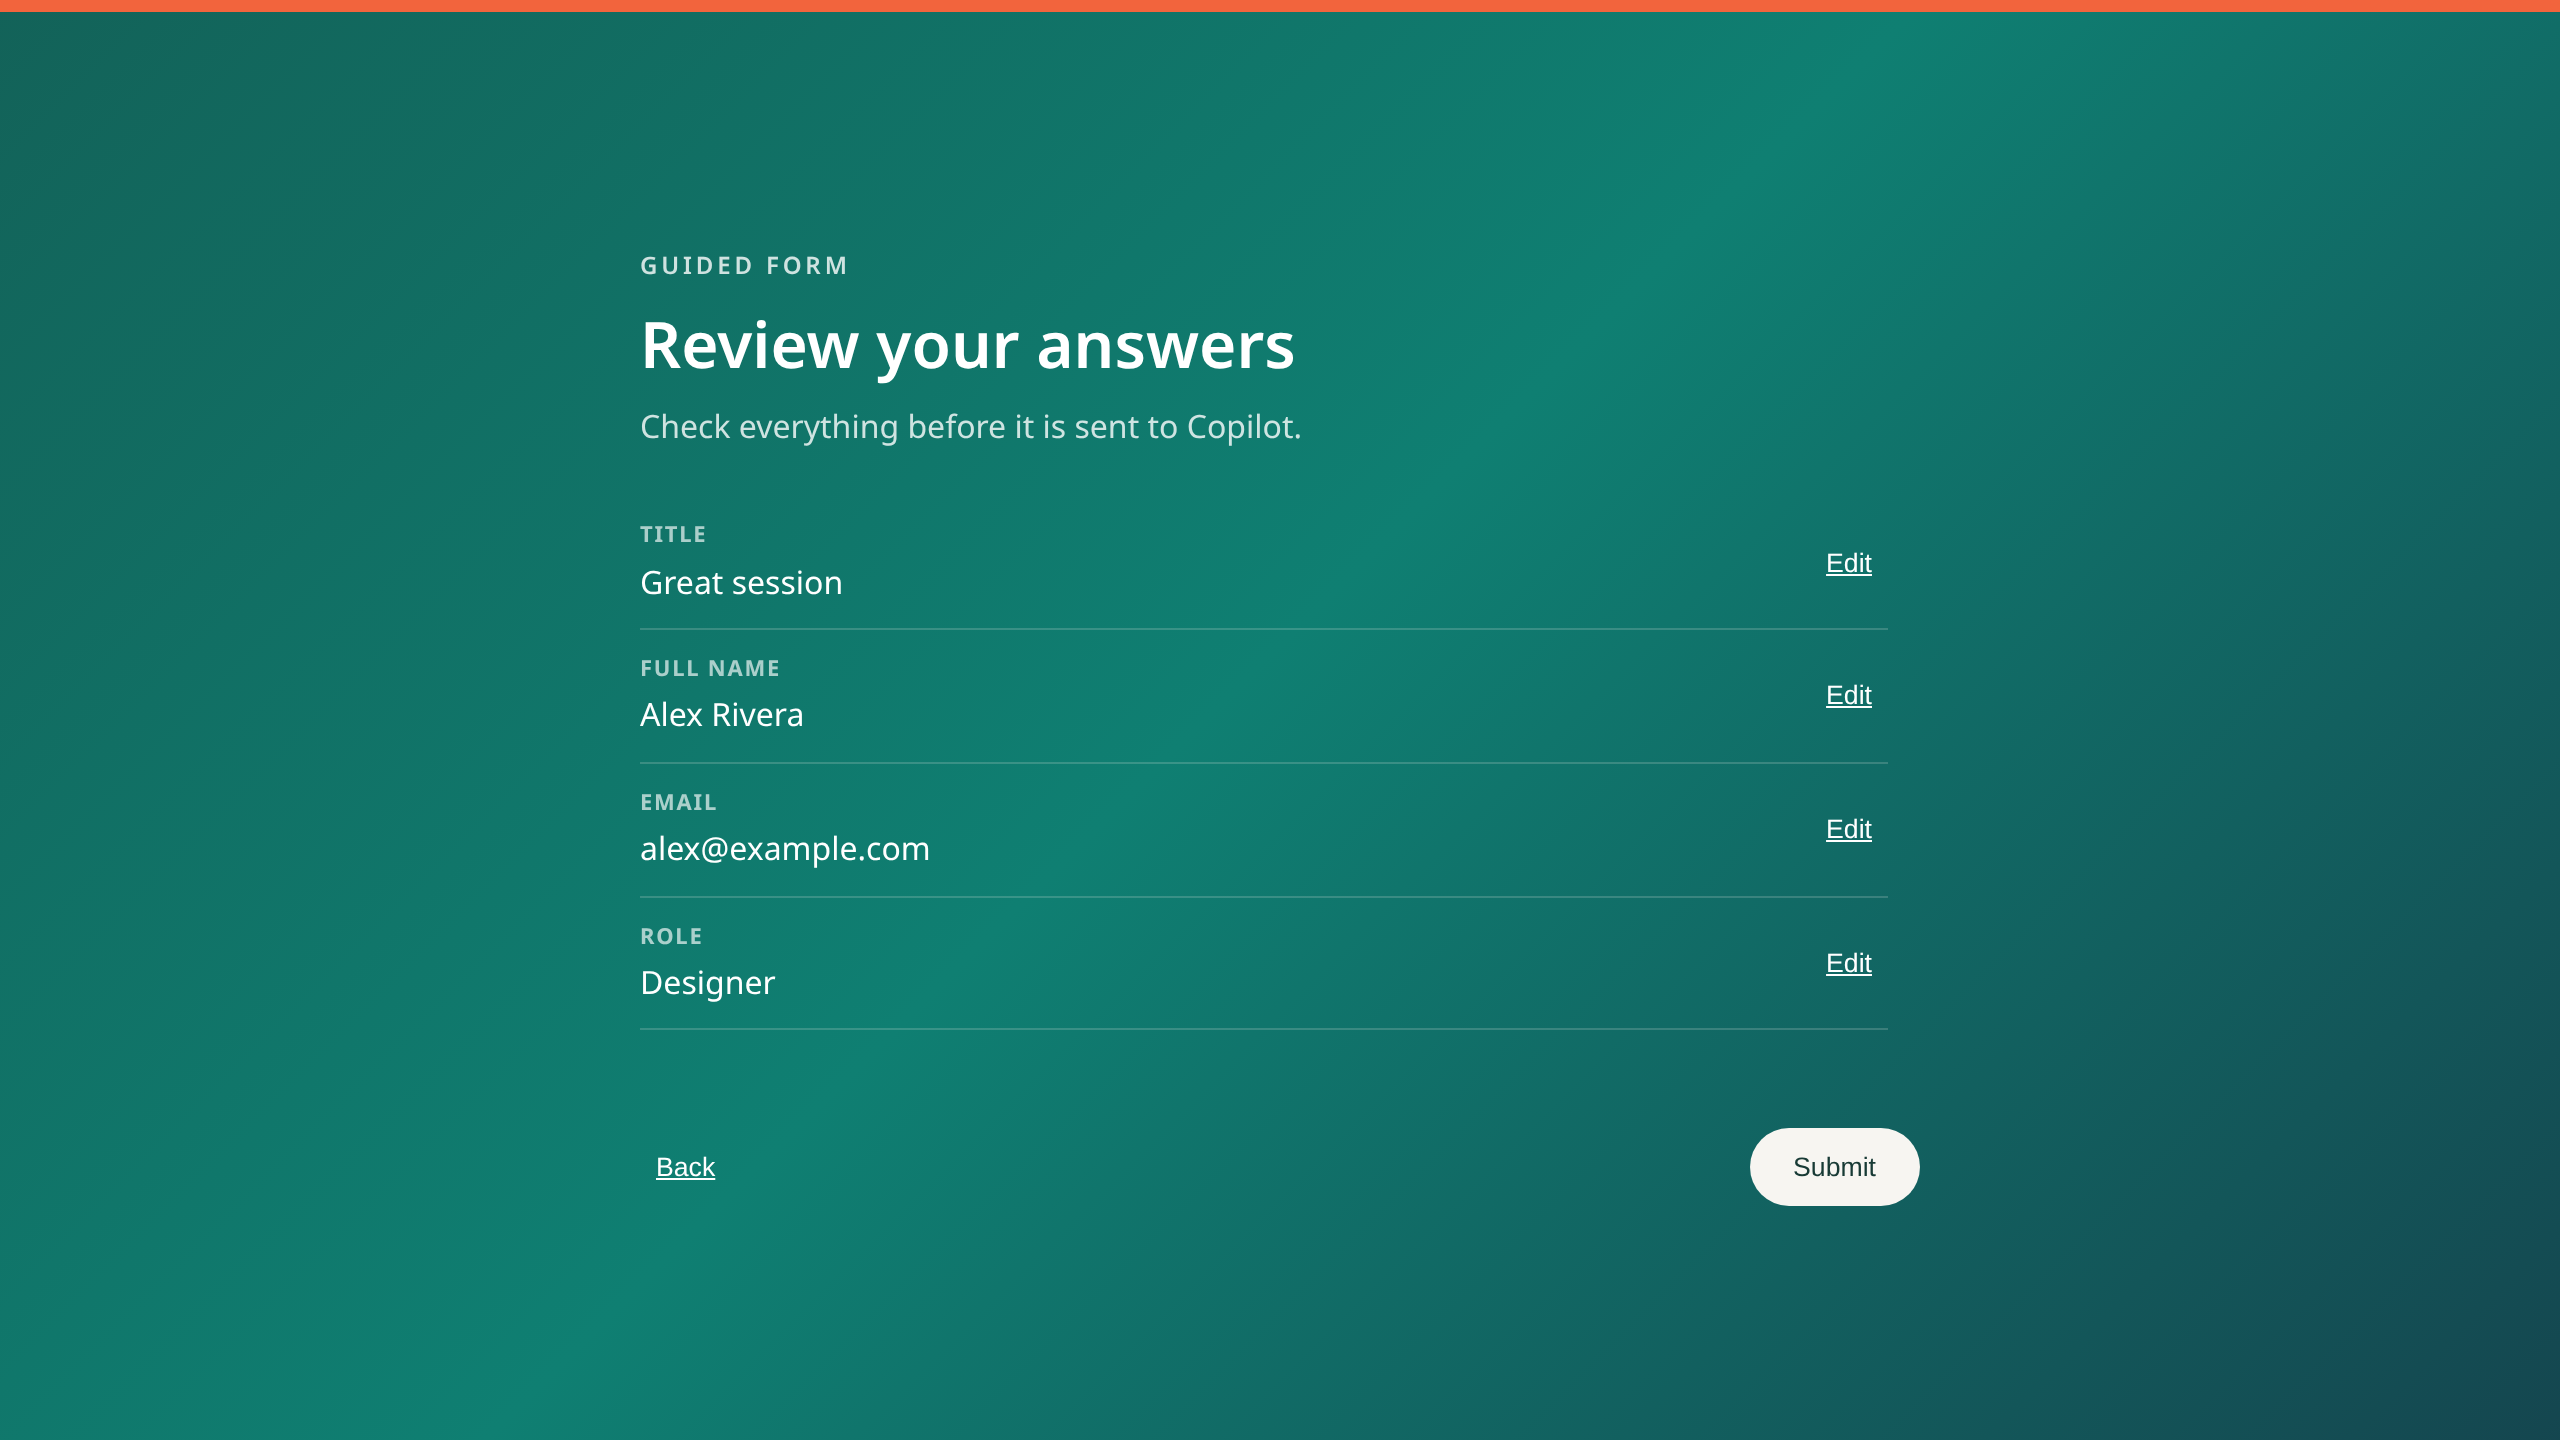
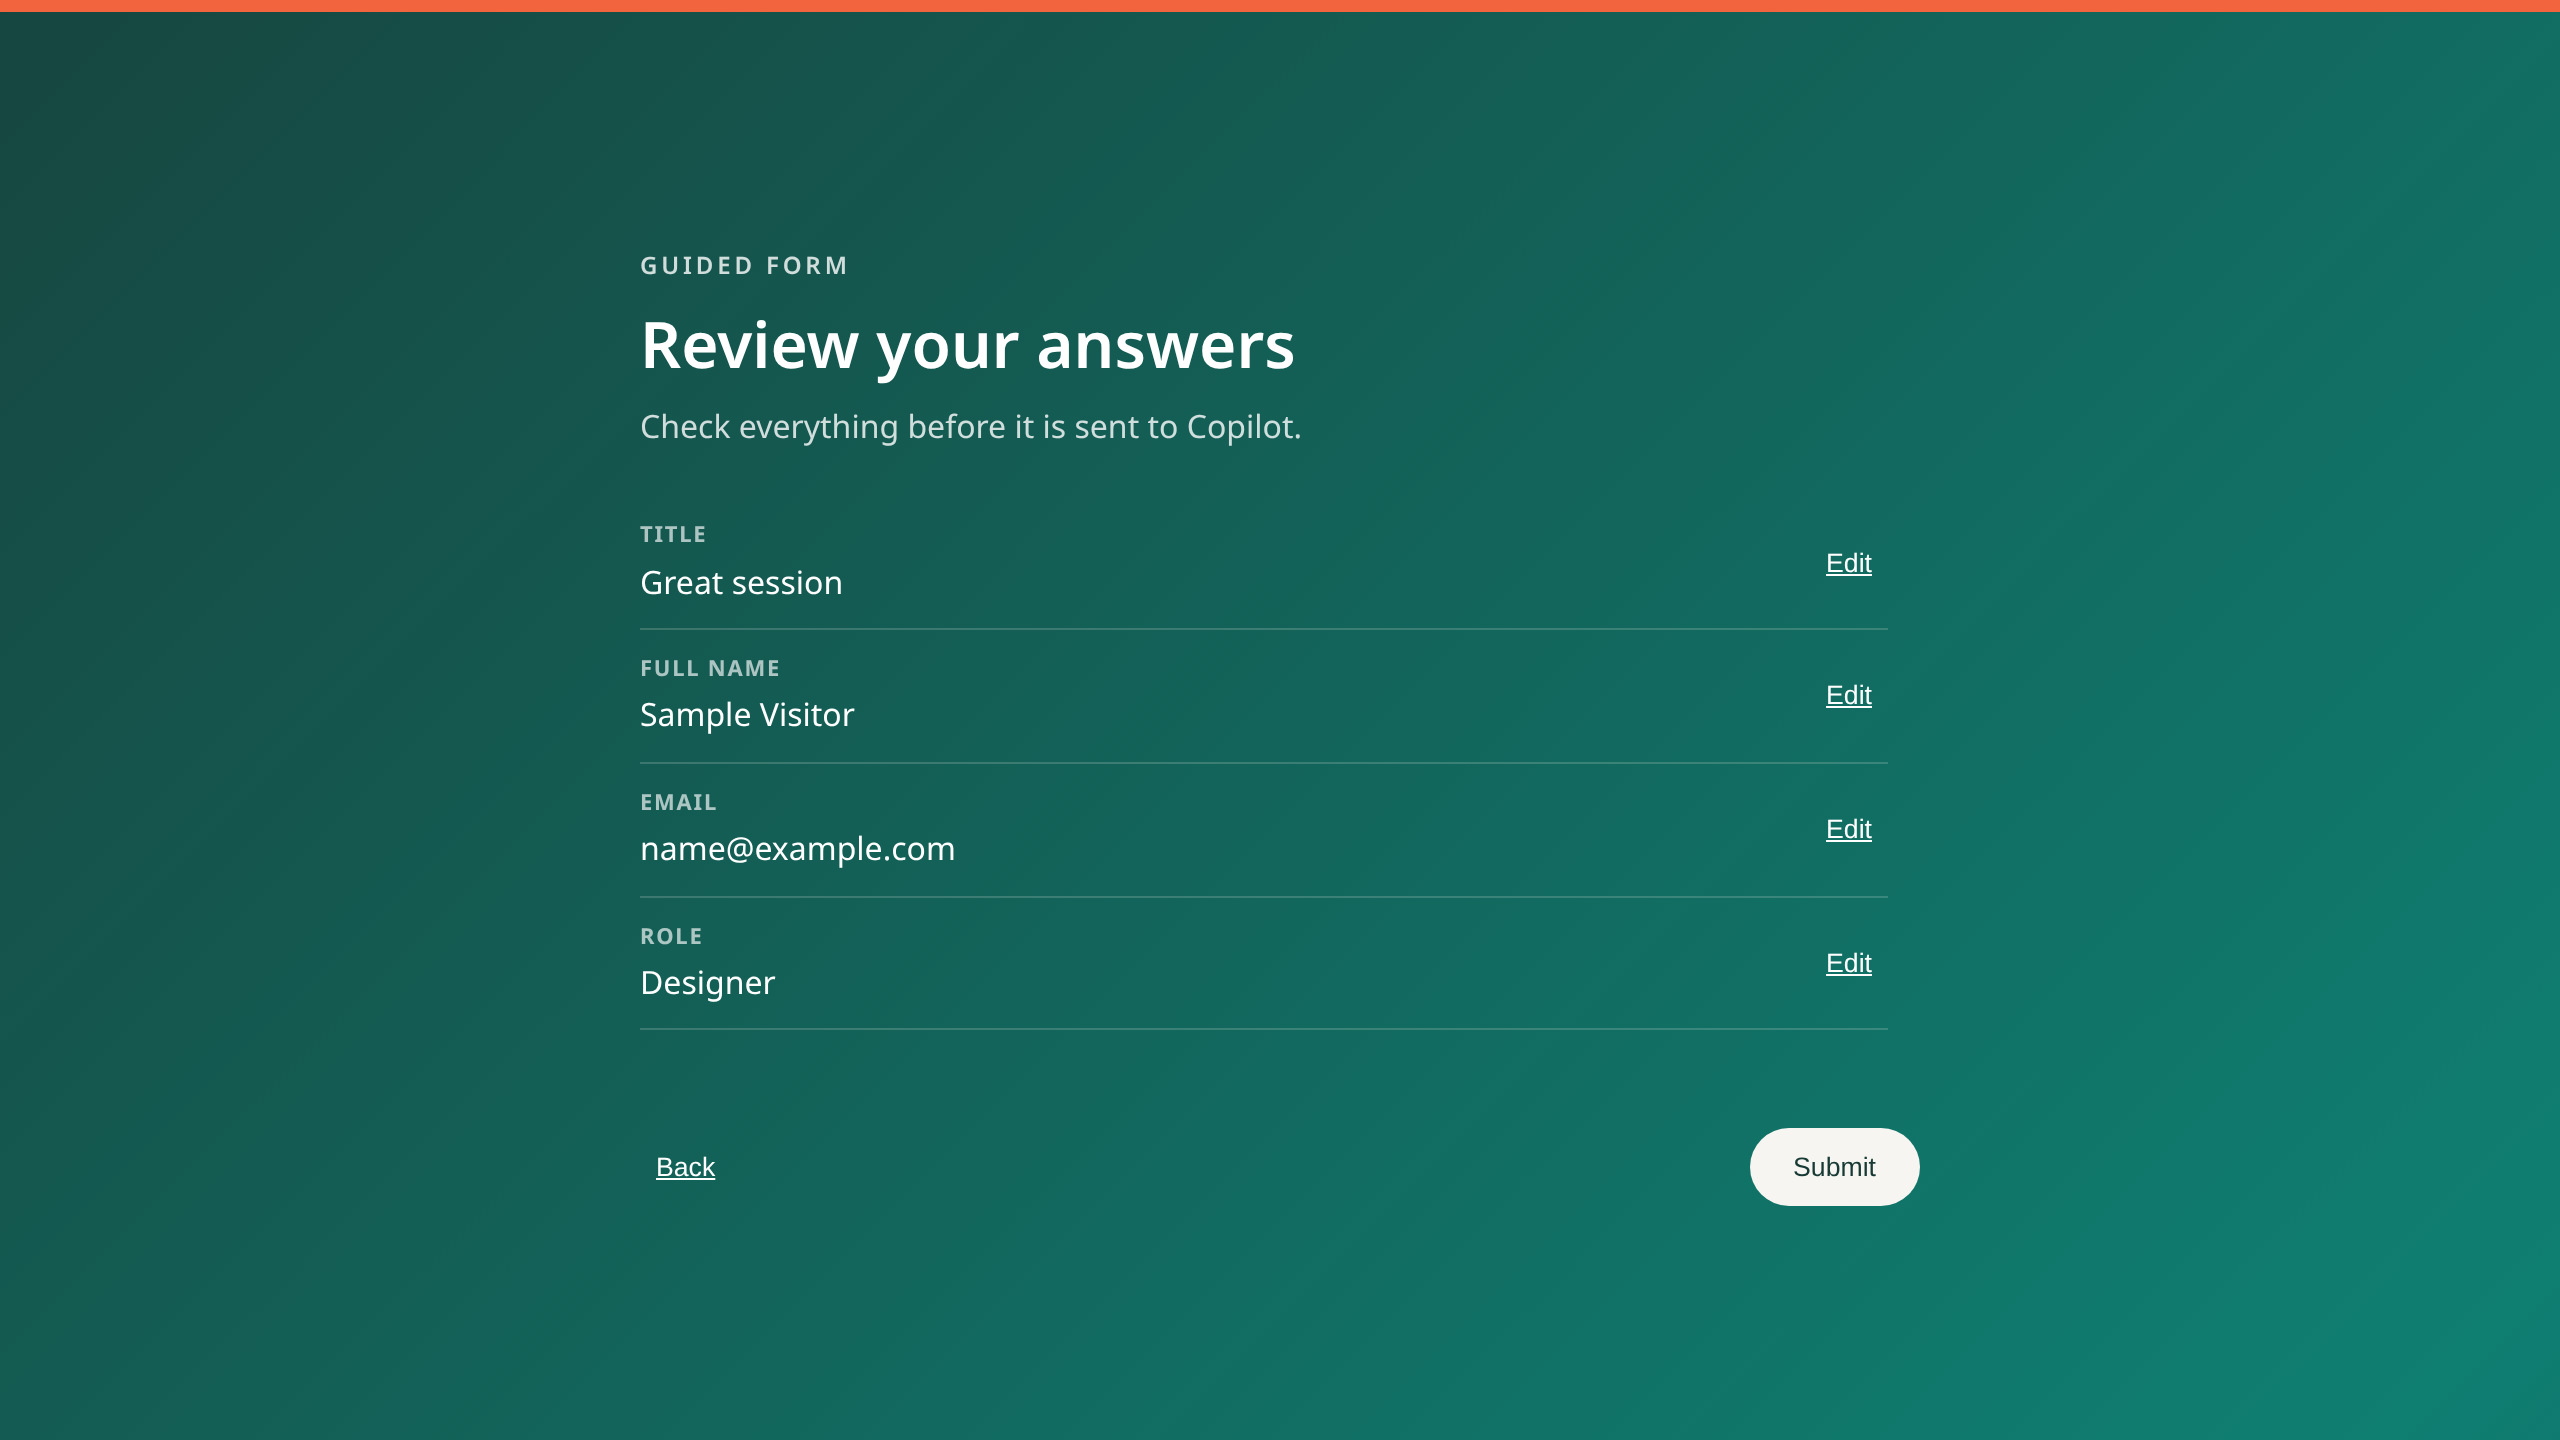
guided-list-form: do not claim Submit reached Copilot

diff --git a/Skills/guided-list-form/guided-list-form/reference.html b/Skills/guided-list-form/guided-list-form/reference.html
@@ -77,7 +77,7 @@ formTitle:"Event Feedback",
 estimatedMinutes:2,
 listUrl:"",
 fields:[
-{internalName:"Title",displayName:"Title",title:"What should we call this feedback?",helper:"A short title helps the team recognise this response. Optional.",type:"text",required:false,placeholder:"A few words"},
+{internalName:"Title",displayName:"Title",title:"What should we call this feedback?",helper:"A short title helps the team recognize this response. Optional.",type:"text",required:false,placeholder:"A few words"},
 {internalName:"FullName",displayName:"Full name",title:"What should we call you?",helper:"Your name helps us understand who joined us.",type:"text",required:true,placeholder:"Your name"},
 {internalName:"Email",displayName:"Email",title:"Where can we reach you?",helper:"We will only use this about this event.",type:"text",format:"email",required:true,placeholder:"you@example.com"},
 {internalName:"Role",displayName:"Role",title:"Which best describes your role?",helper:"Choose one. Letter keys work too.",type:"choice",required:true,choices:["Developer","Designer","Manager","Other"]},
@@ -121,7 +121,7 @@ P.showReview=function(){var self=this;this.step="review";this.prog(1);this.swap(
 P.payload=function(){var d={},i,f,n,v;for(i=0;i<this.fields.length;i++){f=this.fields[i];n=f.internalName;v=shown(this.answers[n]);d[n]=v}return d};
 P.fail=function(t){this.busy=0;this.msg(t);this.say(t)};
 P.submit=function(){var i,f,e,url,form,d,n,add;if(this.busy)return;for(i=0;i<this.fields.length;i++){f=this.fields[i];e=this.err(f,shown(this.answers[f.internalName]));if(e){this.ret=1;this.showQuestion(i);return}}url=this.spec.listUrl||"";if(url&&(!okUrl(url)||!sameTen(url))){this.fail("The list address must be https on this tenant, with no sign-in details in the URL.");return}form=D.getElementById("gf-submit");if(!form||!form.requestSubmit){this.fail("The form could not be sent to Copilot.");return}d=this.payload();form.innerHTML="";add=function(n,v){form.appendChild(h("input",{type:"hidden",name:n,v:""+v}))};for(i=0;i<this.fields.length;i++){n=this.fields[i].internalName;add(n,d[n])}add("__payload",JSON.stringify(d));this.busy=1;try{if(!form.__gfBound){form.__gfBound=1;form.addEventListener("submit",function(ev){ev.preventDefault()})}form.requestSubmit();this.showFinish()}catch(err){this.fail("The form could not be sent to Copilot.")}};
-P.showFinish=function(){var self=this,parts=[],msg="Sent to Copilot. Confirm the item card in chat to save it.";this.step="finish";this.prog(1);this.fields.forEach(function(f){var s=shown(self.answers[f.internalName]);if(s&&parts.length<2)parts.push(s)});this.swap(function(){var b=btn("pill","Submit another",function(){self.answers={};self.busy=0;self.showWelcome()}),w=h("div",{c:"done"},[h("div",{c:"mark",t:"✓"}),h("h1",{c:"title",t:"Sent to Copilot"}),h("p",{c:"help",t:"Confirm the item card in chat to save it."}),parts.length&&h("p",{c:"help",t:parts.join(" · ")}),h("div",{c:"acts"},[b])]);self.say(msg);b.focus();return w})};
+P.showFinish=function(){var self=this,parts=[],msg="Check the chat. If Copilot shows a Create item card, confirm it to save the item. If no card appears, the answers did not reach Copilot.";this.step="finish";this.prog(1);this.fields.forEach(function(f){var s=shown(self.answers[f.internalName]);if(s&&parts.length<2)parts.push(s)});this.swap(function(){var b=btn("pill","Submit another",function(){self.answers={};self.busy=0;self.showWelcome()}),w=h("div",{c:"done"},[h("div",{c:"mark",t:"✓"}),h("h1",{c:"title",t:"Check the chat"}),h("p",{c:"help",t:"If Copilot shows a Create item card, confirm it to save the item. If no card appears, the answers did not reach Copilot."}),parts.length&&h("p",{c:"help",t:parts.join(" · ")}),h("div",{c:"acts"},[b])]);self.say(msg);b.focus();return w})};
 W.GuidedForm=GF;
 })(typeof window!=="undefined"?window:this);
 window.__gf=new GuidedForm(document.getElementById("gf-root"),FORM_SPEC).mount();

diff --git a/Skills/guided-list-form/README.md b/Skills/guided-list-form/README.md
@@ -10,7 +10,7 @@ A conversational, one-question-at-a-time form for a SharePoint list. Copilot in 
 - A welcome step with the list title, a padded "N questions · about N min" line, and Start
 - One question at a time, with "Question N of M", a coral progress bar, underline inputs, lettered choices, rating squares, an OK cream pill, a "press Enter" hint, and a Back link
 - A review step with an Edit link on every answer, compact type, and a dark glass overlay scroll bar
-- A finish screen after Submit: "Sent to Copilot", a reminder to confirm the item card in chat, a short summary, and Submit another to start a fresh response. Nothing is written when the preview opens, and nothing is written until the person confirms the item card.
+- A finish screen after Submit: "Check the chat", a reminder that a Create item card in chat must be confirmed to save the item, and that a missing card means the answers did not reach Copilot, plus a short summary and Submit another to start a fresh response. Nothing is written when the preview opens, and nothing is written until the person confirms the item card. If the hidden form cannot be submitted, the preview stays on the review step and shows that the form could not be sent.
 - The Tech Ease palette: forest green to teal, coral for progress and selection, cream pills with dark green text
 - Answers escaped as text, same-tenant https list URLs only, and no answers echoed back to the chat beyond the create call
 
@@ -25,6 +25,8 @@ Ask Copilot on a SharePoint list:
 To open the same form again later, type `/guided-list-form` or "Open a Guided Form for this list", or add a Quick Step or a Button web part that sends the same prompt. Each person who opens the form needs a Copilot license.
 
 The skill is meant for creating one new list item. It is not a page web part and it does not edit existing items.
+
+On a demo list in Copilot in SharePoint, Submit placed the answers in the Copilot chat and showed a Create item card. The list did not gain a row until that card was confirmed. After confirmation, Copilot reported that one item was added, and that item appeared in the list.
 
 ## Package contents
 
@@ -67,6 +69,7 @@ Watch the walkthrough on [YouTube](https://www.youtube.com/watch?v=o2iKp5pMYXs) 
 
 | Version | Date | Comments |
 | --- | --- | --- |
+| 1.4 | November 2026 | Finish screen asks you to check the chat and does not claim the answers were delivered |
 | 1.3 | November 2026 | Submit no longer sends the list address; Copilot creates the item in the list it already opened |
 | 1.2 | November 2026 | Submit sends answers to Copilot as a chat message; the item is created after the person confirms the card |
 | 1.1 | November 2026 | Compact skeleton in reference.html, with a short skill file that loads that file byte-for-byte |

diff --git a/Skills/guided-list-form/guided-list-form/SKILL.md b/Skills/guided-list-form/guided-list-form/SKILL.md
@@ -20,7 +20,7 @@ Before showing the preview, confirm the output matches `reference.html` except f
 
 1. Read the list columns (display names, exact internal names, types, required flags, descriptions, real choice values). Never invent names or choices. Skip system columns (ID, Created, Modified, Author, Editor), attachments, content type, and person, lookup, image, or calculated columns. If you skip a column, say so once in the chat, not in the form. Include Title as text when it is user-facing.
 2. Build `FORM_SPEC`, copy `reference.html`, replace only `FORM_SPEC`. Self-check, then open the filled HTML with `output.preview` and `interactive: true` (required). Say the Guided Form is ready, naming the list. Do not create an item yet.
-3. Submit returns the answers as a chat message (hidden inputs named with exact internal names, plus `__payload` JSON of those answers only). The submitted answers do not include the list address. Create exactly one item with the list item create tool in the same list you opened this form for in this conversation, using those exact internal names as keys, only after the user confirms the Add item card. Never claim a write until the tool confirms it. Then say the item was added (include the ID if returned), referring to the list by its display name only. Do not echo the list URL in your reply, and do not repeat answers. If it failed, explain without implying success.
+3. Submit returns the answers as a chat message (hidden inputs named with exact internal names, plus `__payload` JSON of those answers only). The submitted answers do not include the list address. Create exactly one item with the list item create tool in the same list you opened this form for in this conversation, using those exact internal names as keys, only after the user confirms the Add item card. Never claim a write until the tool confirms it. Then say the item was added (include the ID if returned), referring to the list by its display name only. Do not echo the list URL in your reply, and do not repeat answers. If it failed, explain without implying success. The preview finish screen is not proof that Copilot received the answers. If no Create item card appears, say that the answers may not have reached Copilot, and do not imply success.
 
 ## FORM_SPEC schema
 
